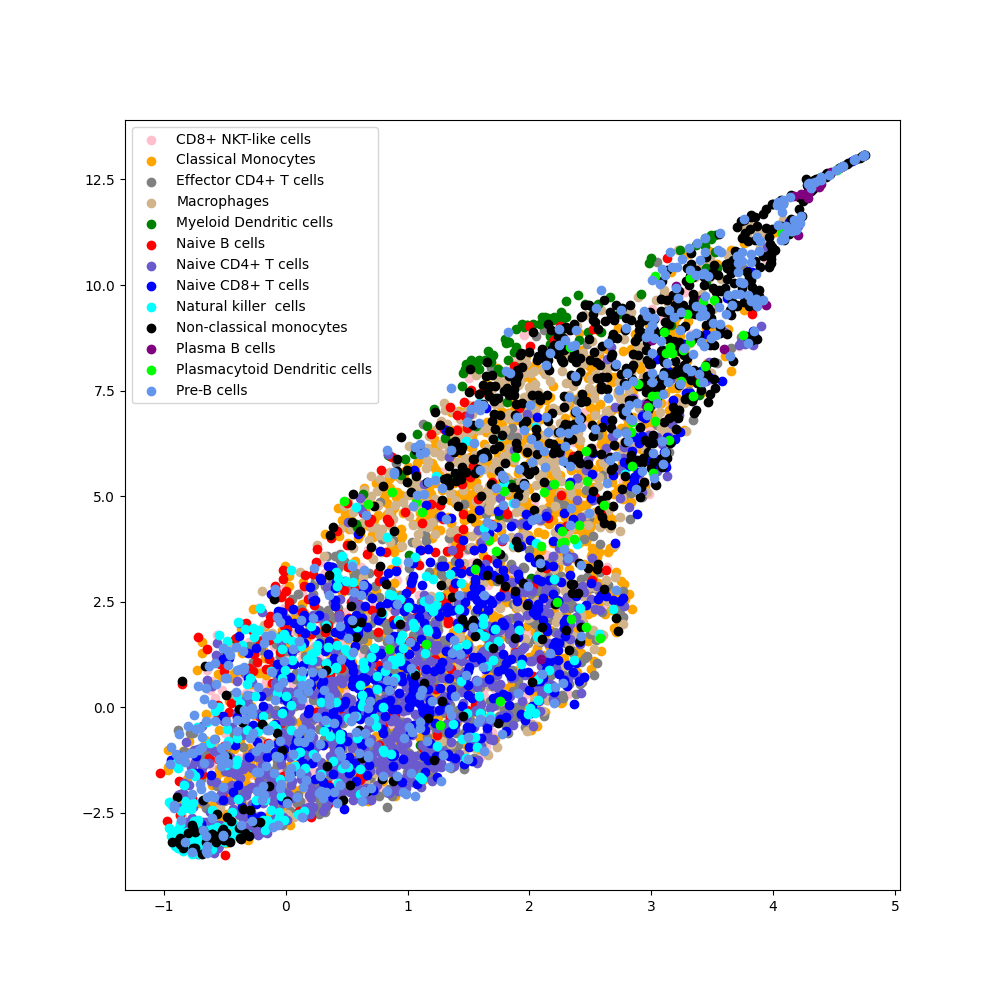
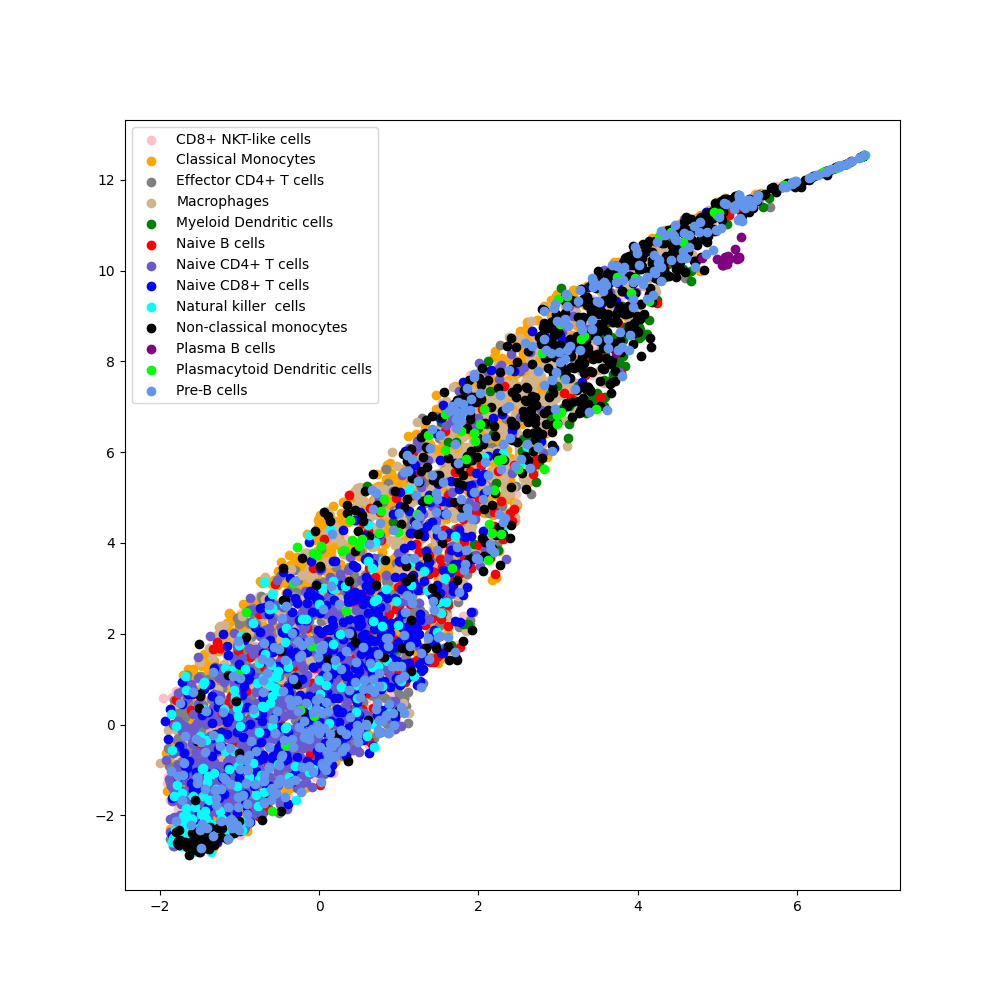
major revamp and figures updates for pbmc10k

diff --git a/B2SC.py b/B2SC.py
@@ -47,7 +47,7 @@ def generate(b2sc_model, loader):
         mus, logvars, gmm_weights = b2sc_model.encode(data)
         
         gmm_weights = gmm_weights.mean(0)
-        # gmm_weights = torch.nn.functional.softmax(gmm_weights, dim=0)
+        gmm_weights = torch.nn.functional.sigmoid(gmm_weights)
         # print(gmm_weights)
         
         selected_neuron = torch.multinomial(gmm_weights, 1).item()
@@ -102,23 +102,20 @@ if __name__ == "__main__":
     b2sc_model.fc_d1.weight.data = scmodel.fc_d1.weight.data.clone()
     b2sc_model.fc_d1.bias.data = scmodel.fc_d1.bias.data.clone()
 
-    b2sc_model.bn_d1.weight.data = scmodel.bn_d1.weight.data.clone()
-    b2sc_model.bn_d1.bias.data = scmodel.bn_d1.bias.data.clone()
+    # b2sc_model.bn_d1.weight.data = scmodel.bn_d1.weight.data.clone()
+    # b2sc_model.bn_d1.bias.data = scmodel.bn_d1.bias.data.clone()
 
     b2sc_model.fc_d2.weight.data = scmodel.fc_d2.weight.data.clone()
     b2sc_model.fc_d2.bias.data = scmodel.fc_d2.bias.data.clone()
 
-    b2sc_model.bn_d2.weight.data = scmodel.bn_d2.weight.data.clone()
-    b2sc_model.bn_d2.bias.data = scmodel.bn_d2.bias.data.clone()
+    # b2sc_model.bn_d2.weight.data = scmodel.bn_d2.weight.data.clone()
+    # b2sc_model.bn_d2.bias.data = scmodel.bn_d2.bias.data.clone()
 
     b2sc_model.fc_d3.weight.data = scmodel.fc_d3.weight.data.clone()
     b2sc_model.fc_d3.bias.data = scmodel.fc_d3.bias.data.clone()
 
-    b2sc_model.bn_d3.weight.data = scmodel.bn_d3.weight.data.clone()
-    b2sc_model.bn_d3.bias.data = scmodel.bn_d3.bias.data.clone()
-
-    b2sc_model.fc_count.weight.data = scmodel.fc_count.weight.data.clone()
-    b2sc_model.fc_count.bias.data = scmodel.fc_count.bias.data.clone()
+    b2sc_model.fc_count.weight.data = scmodel.fc_mean.weight.data.clone()
+    b2sc_model.fc_count.bias.data = scmodel.fc_mean.bias.data.clone()
 
     # Transfer fc_gmm_weights from bulk_model to b2sc_model
     b2sc_model.fc_gmm_weights.weight.data = bulk_model.fc_gmm_weights.weight.data.clone()
@@ -135,6 +132,9 @@ if __name__ == "__main__":
         b2sc_model.fc_logvars[i].weight.data = bulk_model.fc_logvars[i].weight.data.clone()
         b2sc_model.fc_logvars[i].bias.data = bulk_model.fc_logvars[i].bias.data.clone()
 
+        # b2sc_model.bns[i].weight.data = scmodel.bns[i].weight.data.clone()
+        # b2sc_model.bns[i].bias.data = scmodel.bns[i].bias.data.clone()
+        
 
     print("Loaded models")
 
@@ -156,8 +156,8 @@ if __name__ == "__main__":
             labels_tensor = np.array(all_labels)
             np.save('recon_counts.npy', np.array(recon_count_tensor))
             np.save('labels.npy', np.array(labels_tensor))
-            all_recon_counts = []
-            all_labels = []
+            # all_recon_counts = []
+            # all_labels = []
 
         recon_counts, labels = generate(b2sc_model, paired_dataset.dataloader)
         for k in range(len(recon_counts)):

diff --git a/train.py b/train.py
@@ -18,7 +18,7 @@ device = torch.device("cuda" if torch.cuda.is_available() else "cpu")
 # Define hyperparameters and other settings
 input_dim = paired_dataset.input_dim
 hidden_dim = paired_dataset.hidden_dim
-epochs = 1200
+epochs = 700
 z_dim = paired_dataset.z_dim
 
 
@@ -60,9 +60,7 @@ color_map = {
     'Plasma B cells': 'purple', 
     'Plasmacytoid Dendritic cells':'lime',
     'Pre-B cells':'cornflowerblue',
-    
 }
-
 
 
 def remove_params_from_optimizer(optimizer, params_to_remove):
@@ -114,45 +112,13 @@ def train(epoch, model, optimizer, train_loader, gmm_weights_backup):
             optimizer = torch.optim.Adam(filter(lambda p: p.requires_grad, model.parameters()), lr=1e-4)
 
         
-        if epoch != 0:
-            loss.backward()
-            optimizer.step()
+        # if epoch != 0:
+        loss.backward()
+        optimizer.step()
 
         if epoch+1 > train_gmm_till:
             for name, param in model.fc_gmm_weights.named_parameters():
                 param.data = gmm_weights_backup[name]
-
-        if epoch+1 == 0:
-            torch.save(model.cpu().state_dict(), f"sc_model_{epoch+1}.pt")
-            X_tensor = paired_dataset.X_tensor
-            model.to(device)
-            model.eval()
-            
-            with torch.no_grad():
-                # recon_batch, mus, logvars, gmm_weights = model(X_tensor)
-                mus, logvars, gmm_weights = model.encode(X_tensor.to(device))
-                z = model.reparameterize(mus, logvars, gmm_weights).cpu().numpy()
-
-                # Convert cell_types_tensor to numpy for plotting
-                raw_labels = paired_dataset.cell_types_tensor.numpy()
-
-                # Convert raw_labels to their names using the label_map
-                # import pdb;pdb.set_trace()
-                label_names = np.array([label_map[label] for label in raw_labels])
-                unique_labels = np.unique(label_names)
-
-                # embedding
-                reducer = umap.UMAP()
-                embedding = reducer.fit_transform(z)
-
-                # Plot the UMAP representation
-                plt.figure(figsize=(10, 10))
-                for label in unique_labels:
-                    indices = np.where(label_names == label)
-                    plt.scatter(embedding[indices, 0], embedding[indices, 1], color=color_map[label], label=label)
-                plt.legend()
-                plt.savefig(f"umap_{epoch+1}.png")
-        import sys;sys.exit()
     
     if (epoch+1)%100 == 0:
         print(f'====> Epoch: {epoch+1} Average loss: {train_loss / len(train_loader.dataset):.4f}')
@@ -224,7 +190,7 @@ def train(epoch, model, optimizer, train_loader, gmm_weights_backup):
 # for group in optimizer.param_groups:
 #     group['lr'] = 1e-4
 
-epoch_start = -1
+epoch_start = 0
 
 print(paired_dataset.X_tensor.shape)
 gmm_weights_backup = None

diff --git a/cluster_genecounts.py b/cluster_genecounts.py
@@ -10,26 +10,35 @@ labels = np.load('labels.npy')
 
 # Given label and color maps
 
-mapping_dict = {
-    'Naive B cells': '0',
-    'Non-classical monocytes': '1',
-    'Classical Monocytes': '2',
-    'Natural killer  cells': '3',
-    'CD8+ NKT-like cells': '4',
-    'Memory CD4+ T cells': '5',
-    'Naive CD8+ T cells': '6',
-    'Myeloid Dendritic cells': '7',
-    'Platelets': '8'
-}
+# Given label and color maps
+mapping_dict = {'CD8+ NKT-like cells': '0',\
+                'Classical Monocytes': '1',\
+                'Effector CD4+ T cells': '2',\
+                'Macrophages': '3',\
+                'Myeloid Dendritic cells': '4',\
+                'Naive B cells': '5',\
+                'Naive CD4+ T cells': '6',\
+                'Naive CD8+ T cells': '7',\
+                'Natural killer  cells': '8',\
+                'Non-classical monocytes': '9',\
+                'Plasma B cells': '10',\
+                'Plasmacytoid Dendritic cells': '11',\
+                'Pre-B cells': '12'
+                }
 
 # set label_map as the inverse of mapping_dict
 label_map = {v: k for k, v in mapping_dict.items()}
 
+
 color_map = {
-    'Naive B cells': 'red', 'Non-classical monocytes': 'black', 'Classical Monocytes': 'orange', 'Natural killer  cells': 'cyan',
-    'CD8+ NKT-like cells': 'pink', 'Memory CD4+ T cells': 'purple', 'Naive CD8+ T cells': 'blue', 'Myeloid Dendritic cells': 'green',
-    'Platelets': 'yellow'
+    'CD8+ NKT-like cells':'pink', 'Classical Monocytes':'orange',
+    'Effector CD4+ T cells':'grey', 'Macrophages':'tan', 'Myeloid Dendritic cells':'green',
+    'Naive B cells':'red', 'Naive CD4+ T cells':'slateblue', 'Naive CD8+ T cells':'blue',
+    'Natural killer  cells':'cyan', 'Non-classical monocytes':'black',
+    'Plasma B cells': 'purple', 'Plasmacytoid Dendritic cells':'lime', 'Pre-B cells':'cornflowerblue'
 }
+
+
 
 # import pdb;pdb.set_trace()
 for i in range(len(list(color_map.keys()))):
@@ -74,7 +83,7 @@ legend_elements = [mlines.Line2D([0], [0], marker='o', color='w', label=label, m
 plt.legend(handles=legend_elements, bbox_to_anchor=(1.05, 0.5), loc='center left', fontsize=12)
 
 # Save the plot
-plt.savefig("adjusted_umap_scanpy.png", bbox_inches='tight')
+plt.savefig("pbmc10k_generated.png", bbox_inches='tight')
 
 # Ensure the plot displays
 plt.show()

diff --git a/models.py b/models.py
@@ -8,14 +8,13 @@ print(device)
 
 
 class scVAE(nn.Module):
-    def __init__(self, input_dim, hidden_dim, z_dim, num_gmms=15, dropout_rate=0.1):
+    def __init__(self, input_dim, hidden_dim, z_dim, num_gmms=13, dropout_rate=0.1):
         super(scVAE, self).__init__()
 
         self.dropout = nn.Dropout(dropout_rate)
         
         # Generalize for num_gmms mixture models
         self.fcs = nn.ModuleList([nn.Linear(input_dim, hidden_dim) for _ in range(num_gmms)])
-        self.bns = nn.ModuleList([nn.BatchNorm1d(hidden_dim) for _ in range(num_gmms)])
         self.fcs_mean = nn.ModuleList([nn.Linear(hidden_dim, z_dim) for _ in range(num_gmms)])
         self.fcs_logvar = nn.ModuleList([nn.Linear(hidden_dim, z_dim) for _ in range(num_gmms)])
 
@@ -51,7 +50,7 @@ class scVAE(nn.Module):
         logvars = []
 
         for i in range(self.num_gmms):
-            h = nn.ReLU()(self.bns[i](self.fcs[i](x)))
+            h = nn.ReLU()(self.fcs[i](x))
             h = self.dropout(h)
             mus.append(self.fcs_mean[i](h))
             logvar = self.fcs_logvar[i](h)
@@ -100,7 +99,7 @@ class scVAE(nn.Module):
     
 
 class bulkVAE(nn.Module):
-    def __init__(self, input_dim, hidden_dim, z_dim, num_gmms=15, dropout_rate=0.1):
+    def __init__(self, input_dim, hidden_dim, z_dim, num_gmms=13, dropout_rate=0.1):
         super(bulkVAE, self).__init__()
 
         self.dropout = nn.Dropout(dropout_rate)
@@ -149,7 +148,7 @@ class bulkVAE(nn.Module):
 
 
 class B2SC(nn.Module):
-    def __init__(self, input_dim, hidden_dim, z_dim, num_gmms=15, dropout_rate=0.1):
+    def __init__(self, input_dim, hidden_dim, z_dim, num_gmms=13, dropout_rate=0.1):
         super(B2SC, self).__init__()
 
         self.dropout = nn.Dropout(dropout_rate)
@@ -204,13 +203,13 @@ class B2SC(nn.Module):
         return z
 
     def decode(self, z):
-        h1 = nn.ReLU()(self.bn_d1(self.fc_d1(z)))
+        h1 = nn.ReLU()(self.fc_d1(z))
         h1 = self.dropout_d1(h1)
 
-        h2 = nn.ReLU()(self.bn_d2(self.fc_d2(h1)))
+        h2 = nn.ReLU()(self.fc_d2(h1))
         h2 = self.dropout_d2(h2)
 
-        h3 = nn.ReLU()(self.bn_d3(self.fc_d3(h2)))
+        h3 = nn.ReLU()(self.fc_d3(h2))
         h3 = self.dropout_d3(h3)
         
         recon_x = self.fc_count(h3)

diff --git a/paired_dataset.py b/paired_dataset.py
@@ -13,12 +13,12 @@ seed = 200
 np.random.seed(seed)
 torch.manual_seed(seed)
 
-data_dir = "/u/hc2kc/scVAE/paired/pbmc10k/"
+data_dir = "/u/hc2kc/scVAE/pbmc10k/data/"
 
 # adata = sc.read_10x_mtx(data_dir, var_names='gene_symbols', cache=True)
-adata = sc.read_h5ad("/u/hc2kc/scVAE/paired/pbmc10k/pbmc10k.h5ad")
+adata = sc.read_h5ad("/u/hc2kc/scVAE/pbmc10k/data/pbmc10k.h5ad")
 # import pdb;pdb.set_trace()
-barcode_path = '/u/hc2kc/scVAE/paired/pbmc10k/barcode_to_celltype.csv'
+barcode_path = '/u/hc2kc/scVAE/pbmc10k/data/barcode_to_celltype.csv'
 barcodes_with_labels = pd.read_csv(barcode_path, sep=',', header=None).iloc[1:]
 barcodes_with_labels.columns = ['barcodes', 'labels']
 labels = barcodes_with_labels['labels'].values
@@ -113,13 +113,13 @@ print(indices[:10])
 X_tensor = torch.Tensor(adata.X[indices])#
 cell_types_tensor = cell_types_tensor[indices]#
 dataset = TensorDataset(X_tensor, cell_types_tensor)
-mini_batch = 6156 
+mini_batch = how_many//2 
 
 dataloader = DataLoader(dataset, batch_size=mini_batch, shuffle=False)
 # import pdb;pdb.set_trace()
 input_dim = 36601
 hidden_dim = 700
-z_dim = 15
+z_dim = 13
 
 __all__ = ["mapping_dict", "dataloader", 'X_tensor', "cell_types_tensor", "mini_batch"]
 

diff --git a/losses.py b/losses.py
@@ -90,11 +90,9 @@ def zinb_loss(preds, targets, zero_inflation_prob, theta):
 def gmm_loss(gmm_weights, true_gmm_fractions=None, device='cuda'):
     # Default values for the true GMM fractions if not provided
     if true_gmm_fractions is None:
-        fractions = np.array([0.048, 0.248, 0.111, \
-                              0.041, 0.100, 0.045, \
-                              0.068, 0.134, 0.028, \
-                              0.081, 0.009, 0.008, \
-                              0.006, 0.008, 0.064], dtype=np.float32)
+        fractions = np.array([0.07203768, 0.19191099, 0.10923414, 0.09445302, 0.01705514,
+                            0.04280029, 0.13327378, 0.08998619, 0.04840413, 0.10931536,
+                            0.00316738, 0.01080159, 0.0775603 ])
         true_gmm_fractions = torch.tensor(fractions)
 
     # Move true_gmm_fractions to the specified device
